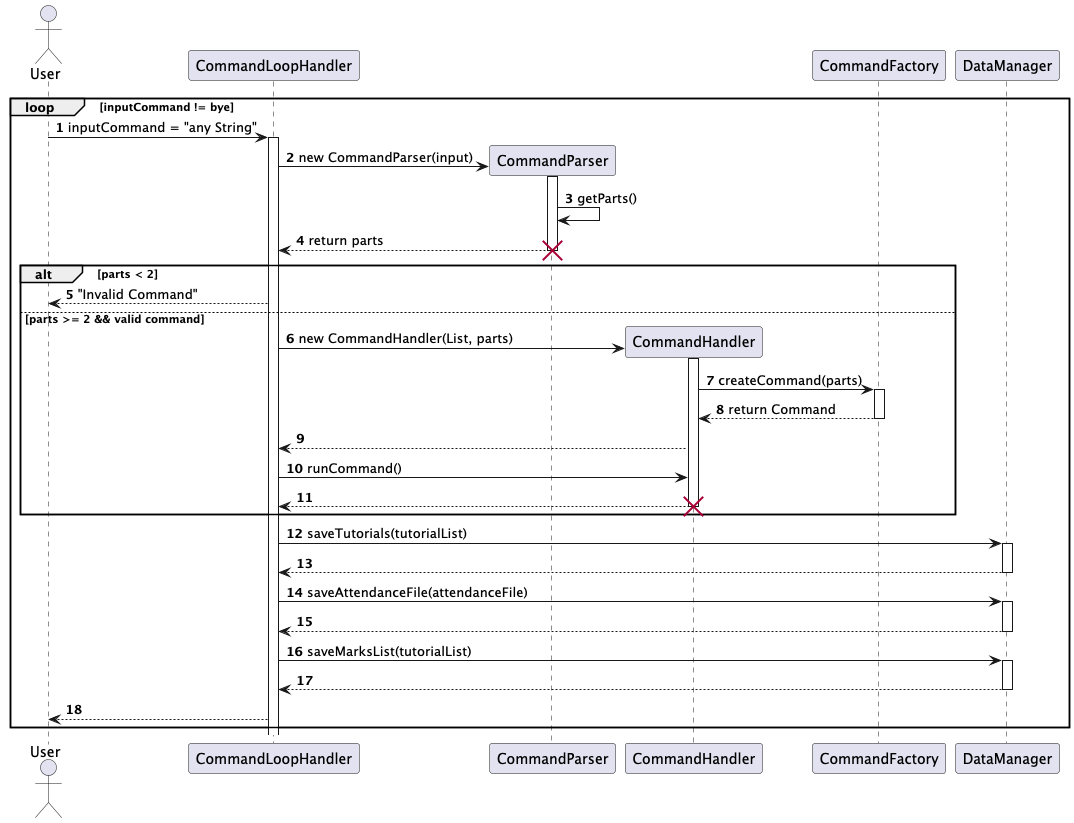
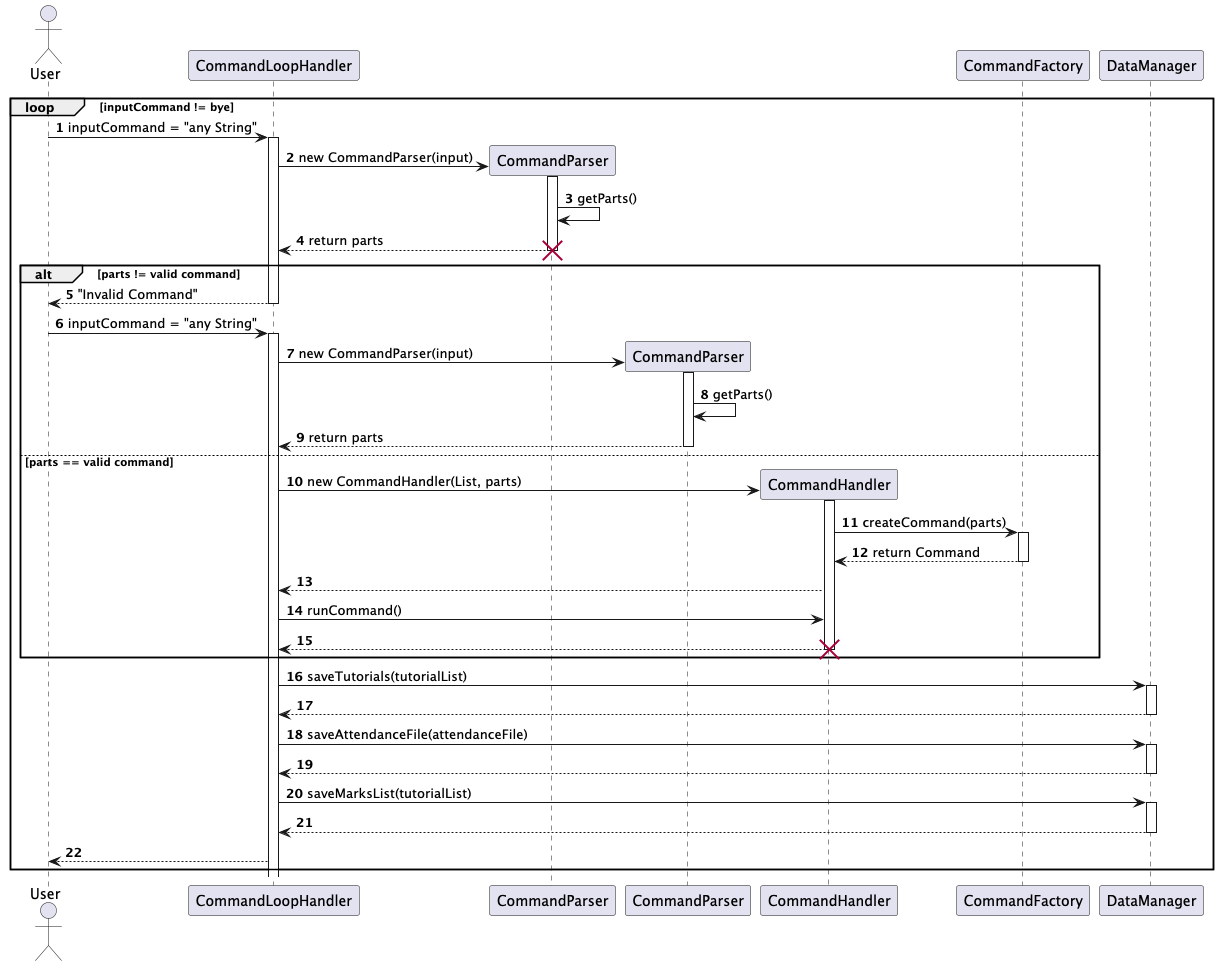
update DG with CommandHandler Package

Changed region(s): [[0.0, 0.0, 1.0, 1.0], [0.8603, 0.4557, 0.9218, 0.486], [0.8603, 0.3645, 0.8911, 0.3949]]

diff --git a/docs/DeveloperGuide.md b/docs/DeveloperGuide.md
@@ -27,27 +27,46 @@ The `CommandParser` is responsible for breaking down user input into a **command
 
 #### Implementation Details
 
-- Extracts the first word as the command keyword (e.g., `addstudent`, `deletetask`) and treats the remainder as arguments.
+- Extracts the first word as the command keyword (e.g., `newstudent`, `delete`) and treats the remainder as arguments.
 - Trims and sanitizes input to ensure compatibility across all command handlers.
 - Throws relevant exceptions if input is malformed or empty.
 
 #### Operations
 
-- `CommandParser.parse(String input)`
-  - Parses the keyword and arguments from user input.
-  - Returns both as a `ParsedInput` object to the `CommandHandler`.
+- `CommandParser(String input)`
+  - Parses the keyword and arguments from user input and saves in attribute: String[] parts
   - Handles edge cases like extra whitespace and missing commands.
+- `getParts()`
+  - Returns parts, an array of String which is the parsed command.
+
+---
+#### 2. CommandHandler
+
+The `CommandHandler` orchestrates the end-to-end command processing — from parsing to execution.
+
+#### Implementation Details
+- Delegates command resolution to `CommandFactory`, and execution to the returned `Command` instance.
+- Accepts relevant data structures such as `TaskList`, `TutorialClassList`, and `AttendanceFile` as input to command execution.
+
+#### Operations
+
+- `CommandHandler(T list, String parts)`
+  - Saves `list` to attribute
+  - Delegates command creation to `CommandFactory` and saves the `Command` instance returned
+  - save relevant command details `parts`
+- `runCommand()`
+  - calls .execute() method of the `Command` instance on the `list` saved based on `parts`.
 
 ---
 
-#### 2. CommandFactory
+#### 3. CommandFactory
 
 The `CommandFactory` is responsible for returning the correct command object for execution.
 
 #### Implementation Details
 
 - Implements the **Factory Design Pattern** to instantiate command classes without exposing their construction logic to external classes.
-- Maps each supported command keyword (e.g., `addstudent`, `listtasks`, `newtutorial`) to its corresponding command class.
+- Maps each supported command keyword (e.g., `addstudent`, `listtasks`, `newtutorial`) and returns its corresponding command object to the caller class.
 - Throws descriptive exceptions if an unrecognized command is provided.
 
 #### Operations
@@ -59,26 +78,6 @@ The `CommandFactory` is responsible for returning the correct command object for
 
 ---
 
-#### 3. CommandHandler
-
-The `CommandHandler` orchestrates the end-to-end command processing — from parsing to execution.
-
-#### Implementation Details
-
-- Acts as the main entry point when a command is entered via CLI.
-- Delegates parsing to `CommandParser`, command resolution to `CommandFactory`, and execution to the returned `Command` instance.
-- Accepts relevant data structures such as `TaskList`, `TutorialClassList`, and `AttendanceFile` as input to command execution.
-- Handles exception logging and displays error messages to the user if any part of the command flow fails.
-
-#### Operations
-
-- `CommandHandler.handleCommand(String fullInput)`
-  - Calls `CommandParser` to break down the input.
-  - Delegates command creation to `CommandFactory`.
-  - Executes the command using the appropriate data object.
-  - Displays output or error messages based on the outcome.
-
----
 
 #### Benefits of the Design
 
@@ -86,6 +85,16 @@ The `CommandHandler` orchestrates the end-to-end command processing — from par
 - **Polymorphic Execution:** All commands implement a common interface `Command<T>`, simplifying invocation logic.
 - **Robust Error Handling:** Clearly separates exceptions thrown during parsing, command creation, and execution.
 - **Testable:** Each component (`Parser`, `Factory`, `Handler`) can be unit tested independently.
+
+### Operations of the three classes in CommandLoopHandler:
+![CommandHandlersSeqDiagram.png](diagrams/CommandHandlersSeqDiagram.png)
+  - User inputs command to `CommandLoopHandler`, which will loop while user does not input `bye`
+  - the `commandLoopHandler` first Parses the command into parts using `CommandParser`
+  - if the parts are not valid command, `CommandLoopHandler` repeated requests for input command till it is valid
+  - if parts are valid command, `CommandLoopHandler` creates `CommandHandler` with list based on command and parts
+  - `CommandHandler` uses `createCommand()` method from `CommandFactory` to generate `Command` Object
+  - The CommandLoopHandler then calls `runCommand()` method in `CommandHandler`
+  - CommandHandler then runs the Command
 
 ### Attendance List Commands
 #### Class diagram for attendanceListCommands
